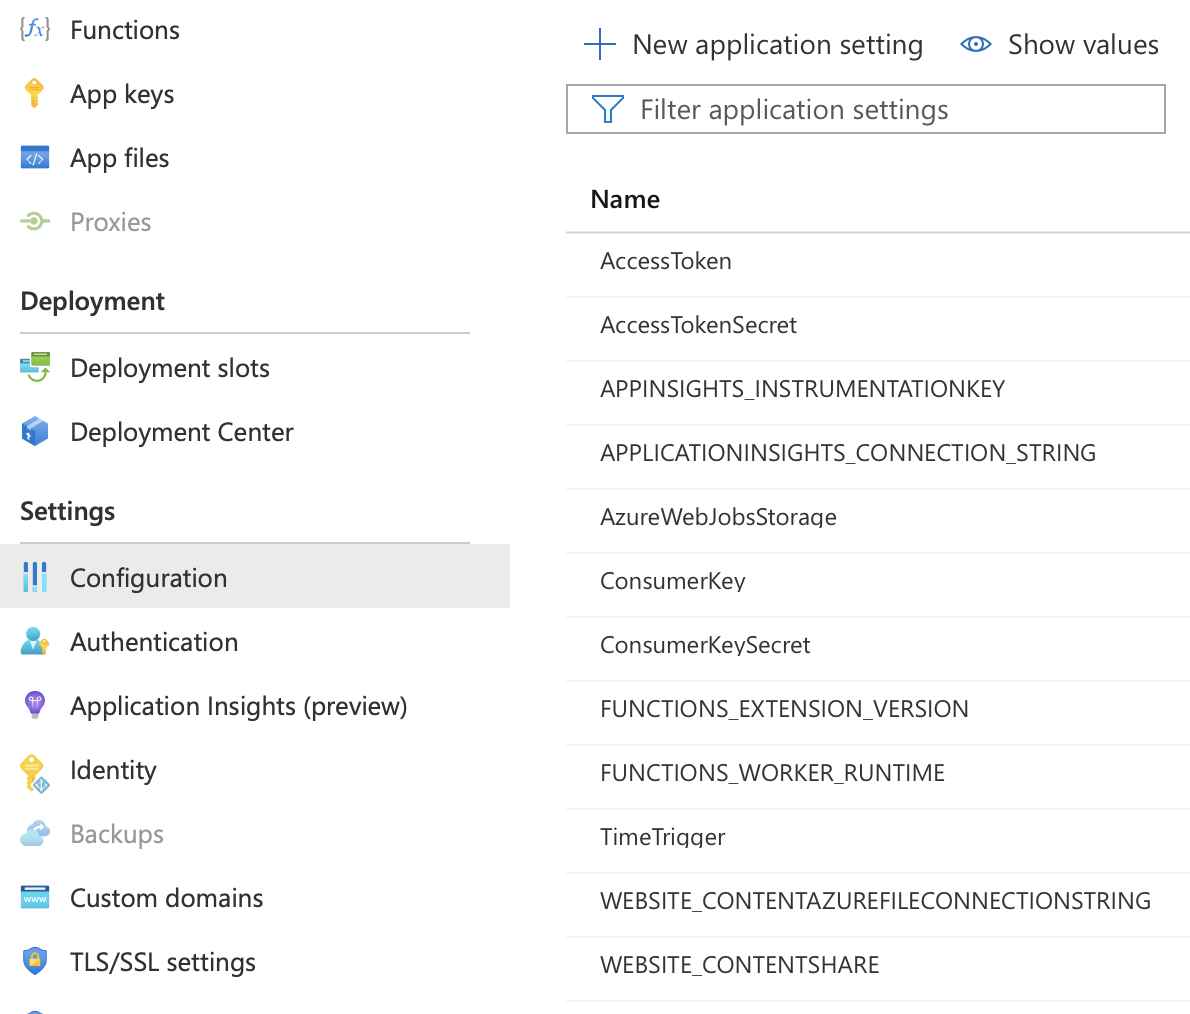
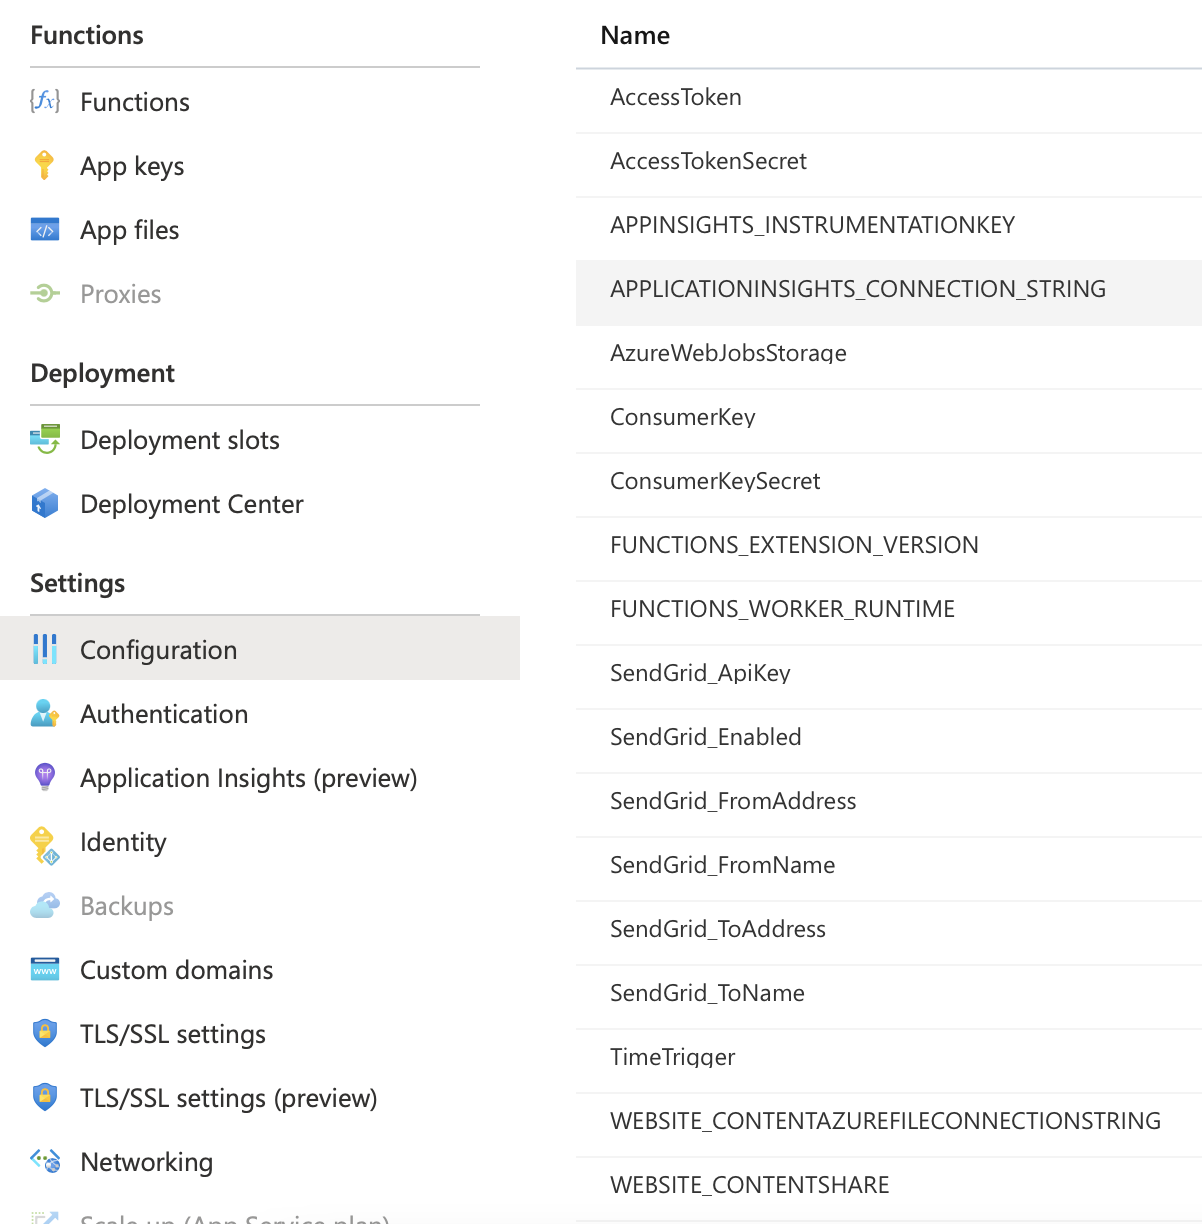
docs: update config image

diff --git a/README.md b/README.md
@@ -24,7 +24,7 @@ When working locally, you need to configure `local.settings.json`. That file is 
 - Create a new Function App that you can deploy to by reading [this guide](https://docs.microsoft.com/en-us/azure/azure-functions/functions-create-your-first-function-visual-studio)
 - Open the solution file in Visual Studio, right-click on the SensorBatteryChecker project and select Publish > Publish to Azure...
 - Sign in to Azure and select your newly created Function App.
-- Configure environment variables (SendGrid not enabled in this image):
+- Configure environment variables:
   ![Configuration](Docs/cloud-config.png)
 - Restart your Function App from the Overview page.
 
